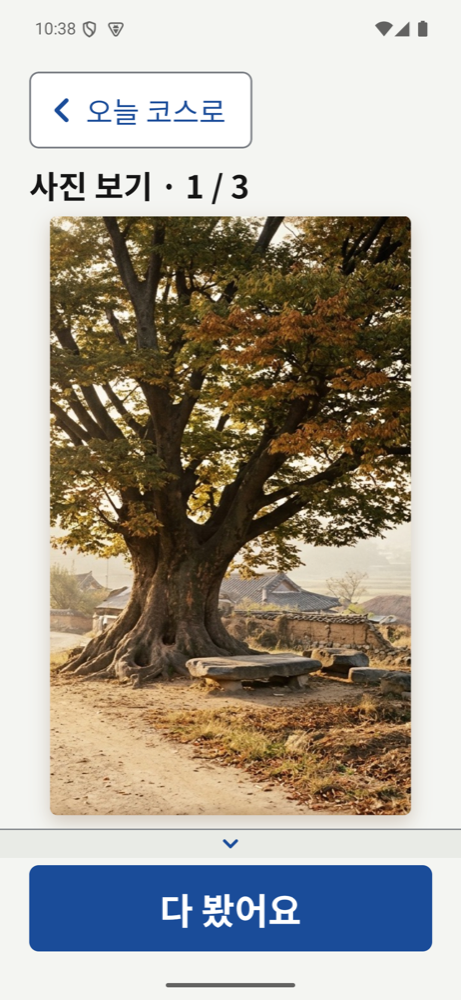
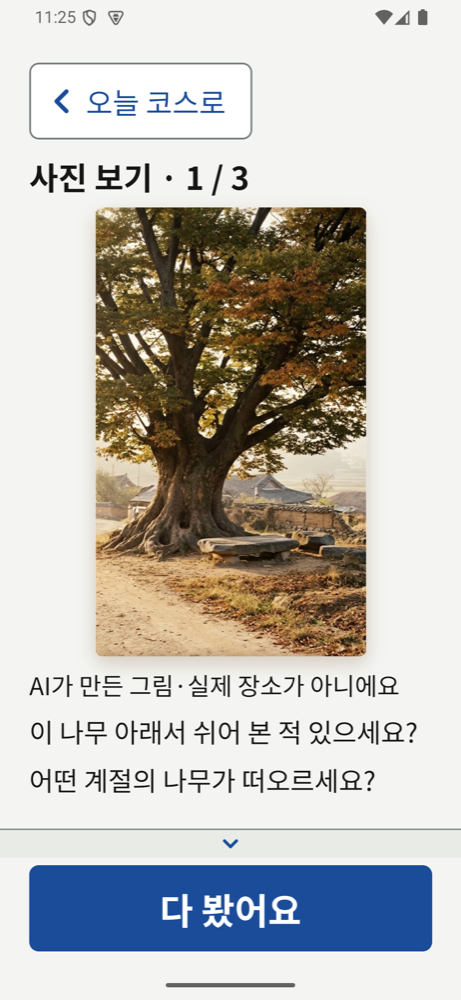
docs(qa): #234 반영 뒤 재캡처 — 정사각·세로 100/200%, 자녀 설정 200%, 360×640 첫 진입 정착(L2)

diff --git a/docs/team/qa/evidence/2026-11-24-p4-photo/README.md b/docs/team/qa/evidence/2026-11-24-p4-photo/README.md
@@ -1,25 +1,29 @@
 # P4 사진 원본 비율 · P-3 설정 톱니 캡처 (2026-11-24, DV-1)
 
-> **#234 리뷰 반영 뒤 다시 찍을 것(캡처 대기)**: 아래 캡처는 첫 커밋(상한 60%, 첫 화면 맞춤 없음) 기준이다.
-> 반영 뒤 상한은 창 45% + 100%대 글자에서 첫 화면 맞춤(fit, 바닥 폭 50%·160). 가로 콘텐츠 사진(1152×928)은 S25급에서 크기 그대로라
-> `*-landscape*` 는 유효하고, `*-square*`·`*-portrait*`(100%·200%)는 에뮬레이터 순번을 받은 뒤 다시 찍어 바꾼다.
-
-- 기기: 에뮬레이터 emulator-5554(gahwa_parent, API 35), S25에 가깝게 1080×2340 @450(약 384×832 dp)로 맞춰 찍음. 찍은 뒤 원래 값(960×1920 @480)으로 되돌리고 끔. 실기기 아님.
+- 기기: 에뮬레이터 emulator-5554(gahwa_parent, API 35), 실기기 아님.
+  - 기본은 S25에 가깝게 1080×2340 @450(약 384×832 dp).
+  - 작은 화면 캡처는 1080×1920 @480(360×640 dp).
+  - 찍은 뒤 1080×2340 @450, 글자 1.0으로 되돌리고 끔.
 - 빌드: 11-20 stagingDebug APK(글꼴 번들 포함, 그 뒤 네이티브 변경 없음) + 이 브랜치 작업 폴더 Metro 8094, fake API.
-- 사진: fake API 사진 주소만 **커밋하지 않은 임시 수정**으로 로컬 파일 서버(adb reverse 8093)에 연결. 원본은 content/photos/day-01.jpg(1152×928, 실제 콘텐츠 비율)를 가로 그대로 / 928×928 정사각 / 560×928 세로로 잘라 씀.
-- 원인(수정 전): 사진 틀 높이를 글자 크기·설명 유무로 124/88/80 고정 + `resizeMode="cover"`. 본문 폭 약 336에 높이 88이면 1152×928 사진의 가운데 약 1/3 띠만 보였다.
+- 사진: fake API의 사진 주소만 **커밋하지 않은 임시 수정**으로 로컬 파일 서버(adb reverse 8093)에 연결했다. 원본은 content/photos/day-01.jpg(1152×928, 실제 콘텐츠 비율)이고, 가로는 그대로, 정사각은 928×928, 세로는 560×928로 잘라 썼다.
+- 원인(수정 전): 사진 틀 높이를 글자 크기·설명 유무에 따라 124/88/80으로 고정하고 `resizeMode="cover"`였다. 본문 폭 약 336에 높이 88이면 1152×928 사진의 가운데 약 1/3 띠만 보였다.
+- 반영 뒤 규칙(#234 리뷰): 사진 높이 상한은 창 45%다. 글자 150% 미만에서는 첫 화면 맞춤(fit)을 더한다. fit은 질문 첫 문장 바닥 + 여유 2dp가 첫 화면 안에 들게 하는 높이이고, 바닥은 폭 50%와 160 중 큰 값이다.
+- 찍은 시점: `landscape`·`p3`·`100-child`는 첫 커밋 때 찍었다. 가로 콘텐츠 사진은 S25급에서 크기가 그대로라 유효하다. 나머지는 반영 뒤(64d8cfe0) 다시 찍었다.
 
 | 파일 | 글자 | 보이는 것 |
 |---|---|---|
-| `100-p4-landscape.png` | 100% | 가로 사진 폭 가득, 원본 비율(잘림 없음) → 고지 → 설명 → 질문 → 읽어 주세요 |
-| `100-p4-square.png` | 100% | 정사각 폭 = 높이. 질문까지 첫 화면, 읽어 주세요는 접힘 아래(기존 접힘 규칙) |
-| `100-p4-portrait.png` | 100% | 세로 사진은 창 높이 60%로 막고 폭을 줄여 가운데. 첫 화면은 사진만 |
-| `100-p4-portrait-scrolled.png` | 100% | 밀어 올리면 고지·질문·읽어 주세요·크게 보기 안내·설명·천천히 보세요 |
-| `200-p4-landscape.png` · `-scrolled.png` | 200% | 사진 크기는 100%와 같음, 고지·질문 첫 문장까지 첫 화면, 나머지 스크롤 |
-| `200-p4-square.png` | 200% | 정사각, 질문 첫 문장 첫 화면 |
-| `200-p4-portrait.png` · `-scrolled.png` | 200% | 세로 사진 상한 높이, 스크롤로 고지·질문·읽어 주세요까지 다 보임 |
+| `100-p4-landscape.png` | 100% | 가로 사진이 폭 가득, 원본 비율(잘림 없음). 그 아래 고지 → 설명 → 질문 → 읽어 주세요 |
+| `100-p4-square.png` | 100% | 정사각 336×336(상한 374 아래라 폭 가득). 고지와 질문 두 문장이 첫 화면 |
+| `100-p4-portrait.png` | 100% | 세로 사진은 창 45%(374)로 막고 폭을 줄여 가운데. 고지와 질문 두 문장이 첫 화면 |
+| `100-p4-portrait-scrolled.png` | 100% | 밀어 올리면 읽어 주세요·크게 보기 안내·설명·천천히 보세요 |
+| `200-p4-landscape.png` · `-scrolled.png` | 200% | 사진 크기는 100%와 같다. 고지와 질문 첫 문장까지 첫 화면, 나머지는 스크롤 |
+| `200-p4-square.png` | 200% | 정사각, 질문 첫 문장이 첫 화면(200%는 첫 화면 맞춤 없음, 45% 상한만) |
+| `200-p4-portrait.png` · `-scrolled.png` | 200% | 세로 사진은 상한 높이. 첫 화면은 사진과 고지, 스크롤하면 질문·읽어 주세요까지 다 보임 |
+| `100-small360x640-entry-1-transition.png` | 100%, 360×640 | 첫 진입 화면 전환 중 프레임. 코스 홈 위로 P4가 겹쳐 보이는 동안 배치가 정해진다(사진·설명 자리) |
+| `100-small360x640-entry-2-settled.png` · `-3-final.png` | 100%, 360×640 | 전환이 끝난 첫 프레임부터 배치가 최종과 같다. 사진은 266×214dp(fit). 질문 첫 문장 바닥은 첫 화면 끝에서 2dp 위(uiautomator: 사진 [141,516][939,1158], q0 바닥 1488px, 본문 끝 − 더 있음 띠 = 1494px). 이후 프레임 차이는 사진 서서히 나타남뿐 |
 | `100-p3-settings-gear.png` | 100% | 어르신 코스 홈 '⚙ 설정'(톱니 + 밑줄 파랑 글자) |
 | `200-p3-settings-gear.png` | 200% | 같은 링크가 날짜 아래 줄로 내려감(기존 줄바꿈 규칙). 톱니는 24 고정이라 글자보다 작게 보임 — 후속 판단 |
-| `100-child-wait-settings-gear.png` | 100% | 자녀 연결 기다리는 중 화면의 같은 SettingsLink(톱니 20 + 밑줄 글자) |
+| `100-child-wait-settings-gear.png` · `200-child-wait-settings-gear.png` | 100% · 200% | 자녀 '연결 기다리는 중' 화면의 같은 SettingsLink(톱니 20 + 밑줄 글자). 200%에서는 설정이 제목 아래 줄로 내려감 |
 
-못 찍은 것: 자녀 홈 상단 바(TopBar)는 fake 에서 연결 상태로 가기 어려워 대기 화면으로 대신함(같은 컴포넌트, 렌더 테스트 settingsLink.test.tsx가 TopBar를 직접 확인).
+- **L2 튐 확인(#234 재확인):** 360×640, 설명 있는 날, 첫 진입. 화면 전환 중 연속 캡처 8장을 보니, 재배치(설명 줄 순서·사진 맞춤)는 전환 애니메이션 동안 끝났다. 전환이 끝난 첫 프레임부터 배치가 바뀌지 않았다. 눈에 띄는 튐은 없었다.
+- **못 찍은 것:** 자녀 홈 상단 바(TopBar)는 fake에서 연결 상태로 갈 수 없어 대기 화면(같은 SettingsLink)으로 대신했다. TopBar는 렌더 테스트 settingsLink.test.tsx가 직접 확인한다.
